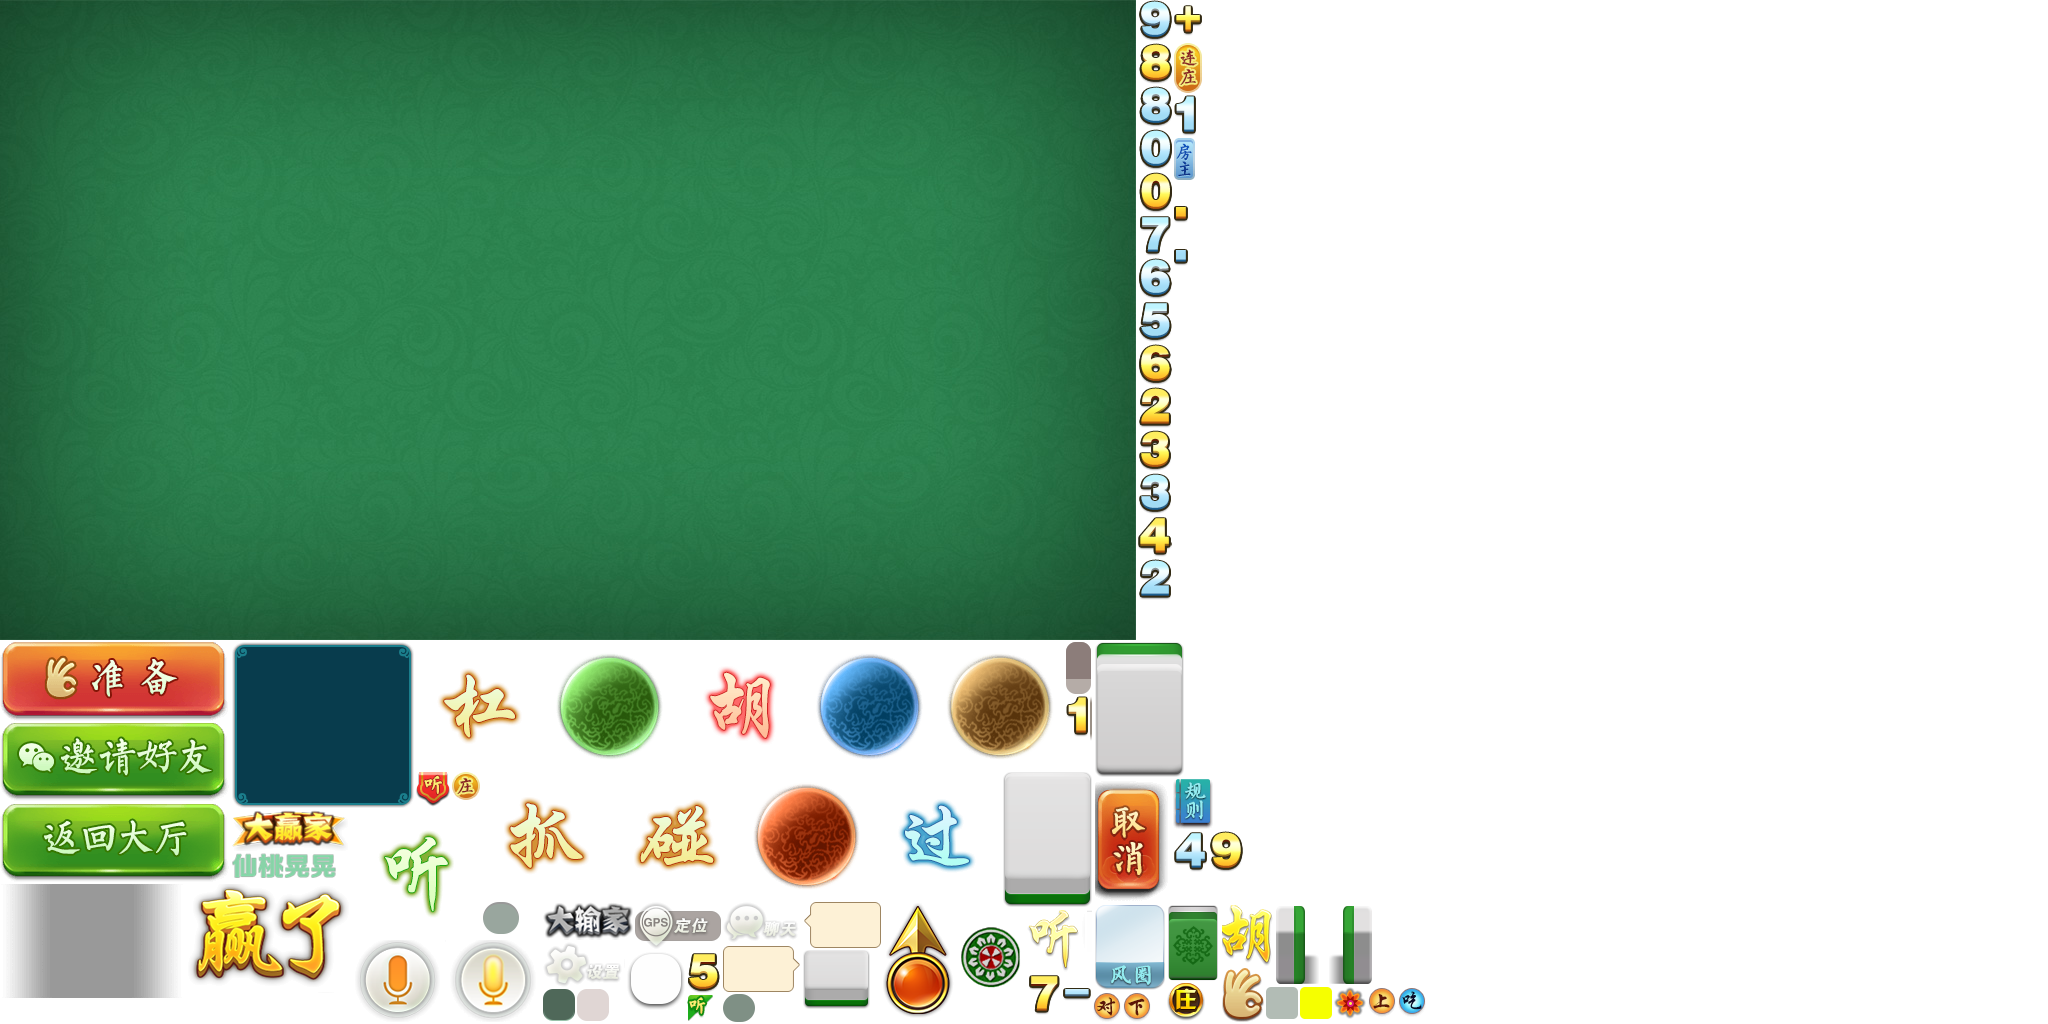
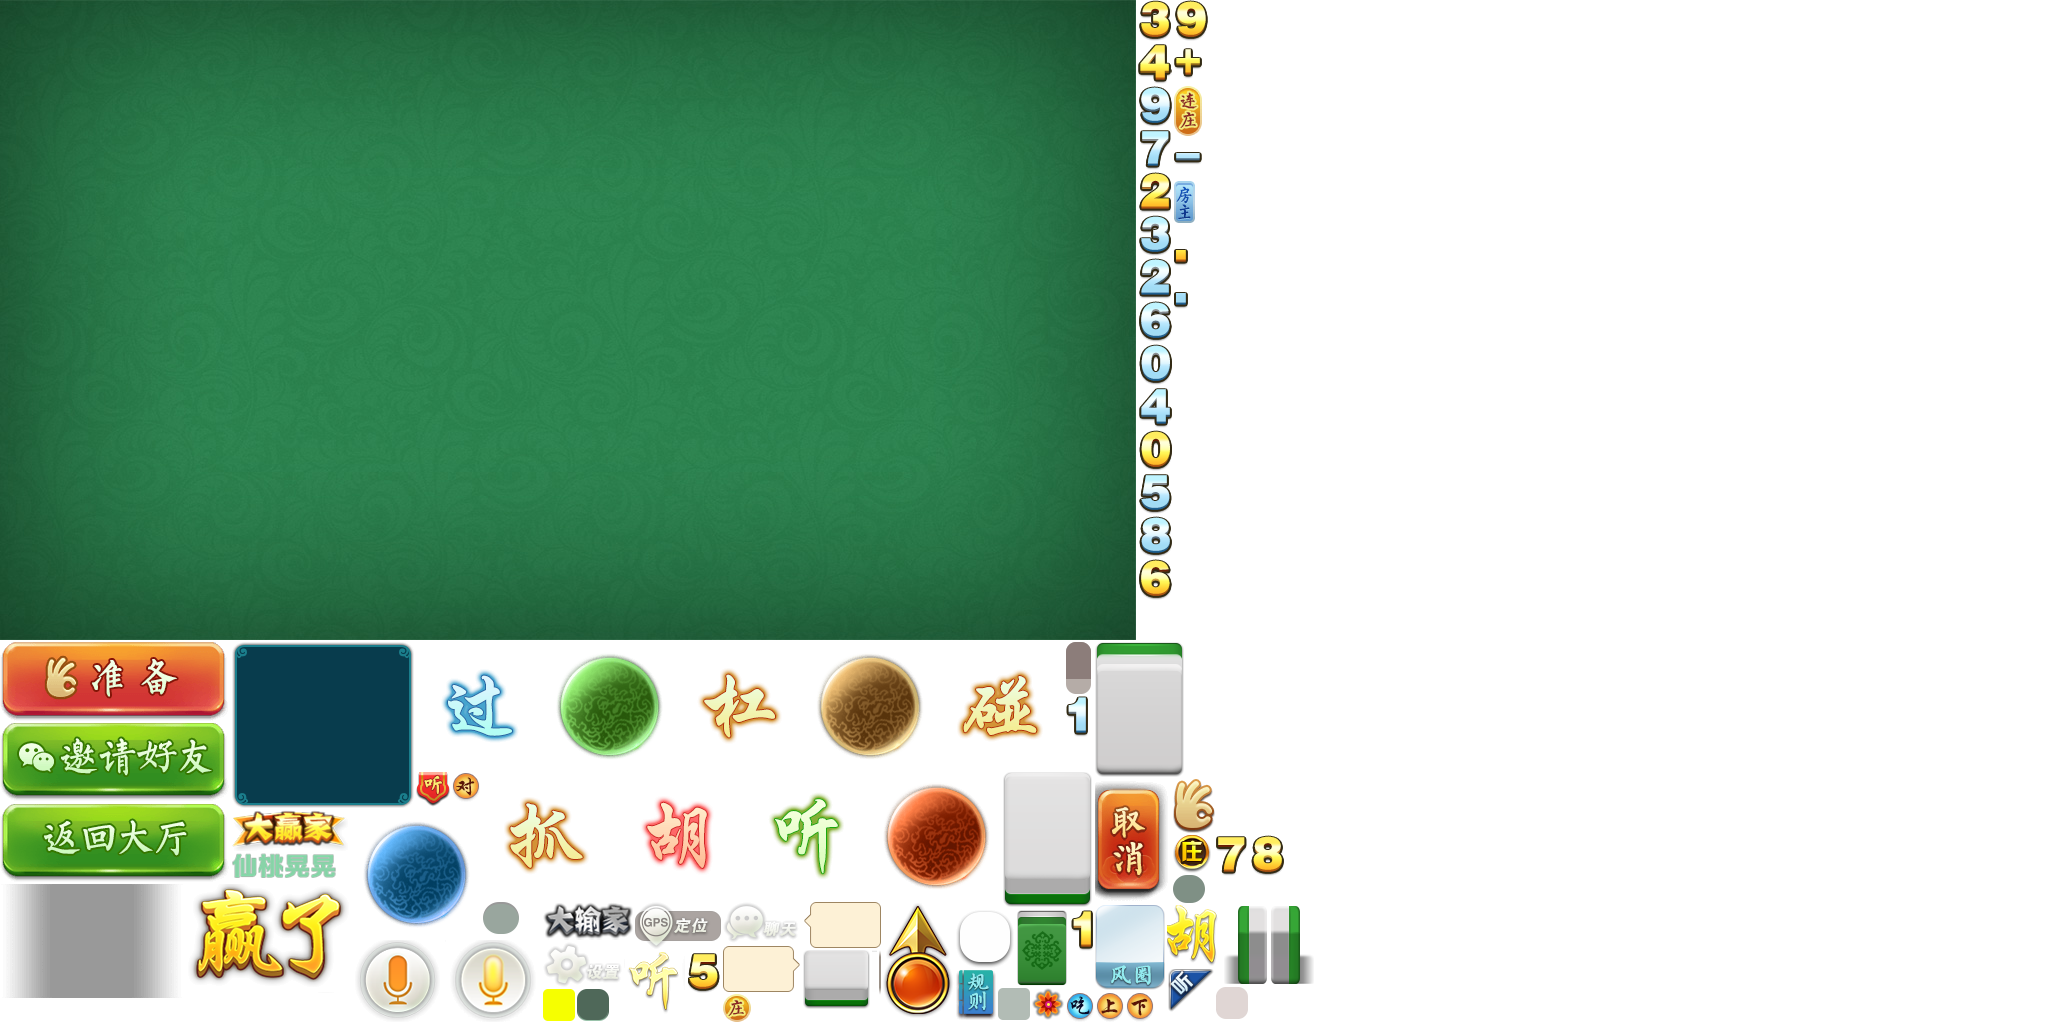
飘位置 听牌标志

diff --git a/assets/Script/modules/gameb/PlayerView.ts b/assets/Script/modules/gameb/PlayerView.ts
@@ -331,7 +331,8 @@ export class PlayerView {
         }
 
         if (isPiao) {
-            this.playPiaoEffect(lastD.node);
+            const point = lastD.getChild("piaoPos");
+            this.playPiaoEffect(point.node);
         }
     }
 
